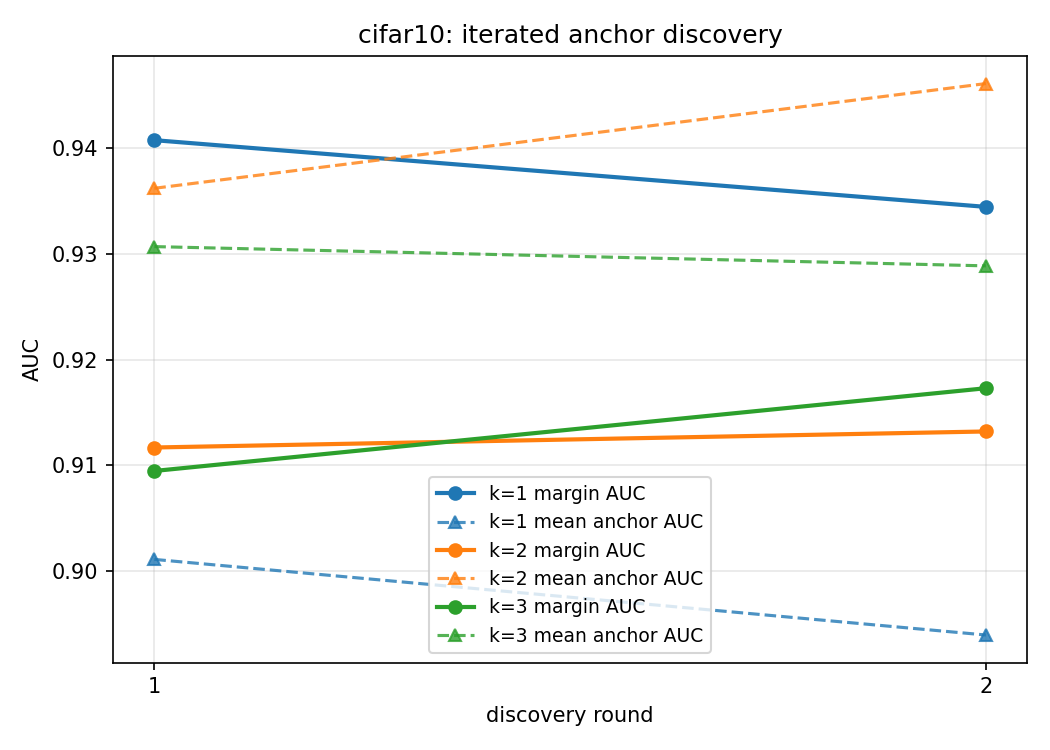
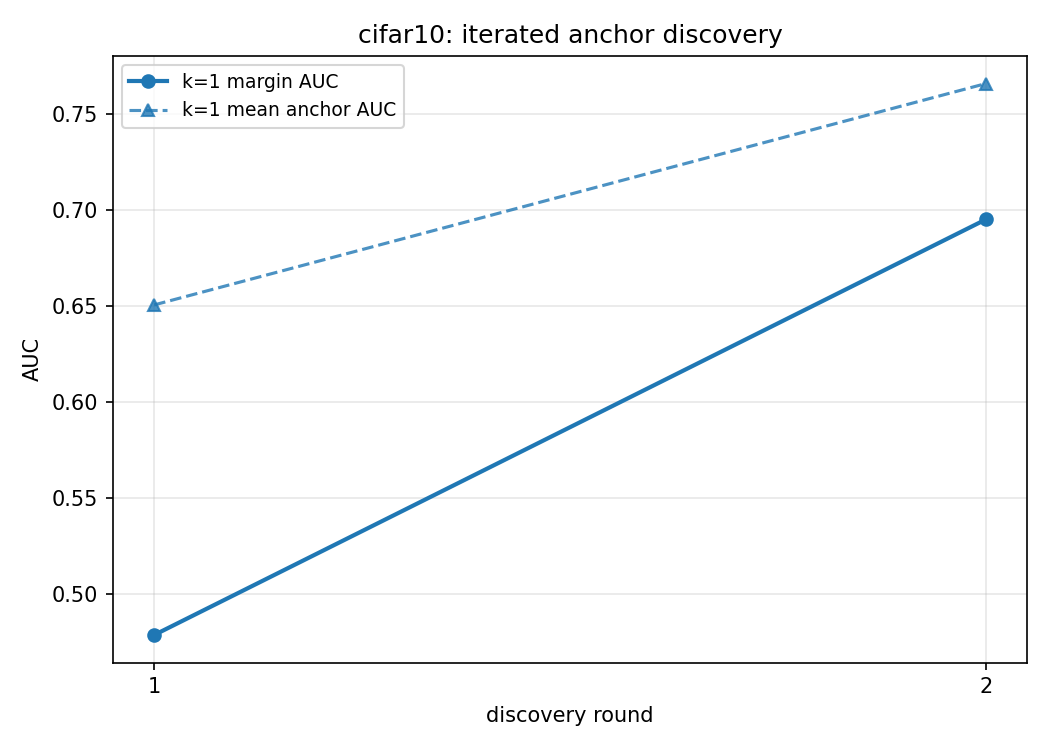
Anchor merging between rounds: null result with diagnosis
--merge-dist in experiment 24 (union-find, member-weighted centers).
Zero merges fire at 3 sigma anywhere: the fine-tuning repulsion keeps
duplicate anchors >=3 sigma apart, so distance cannot identify them.
k=10 converges by round 2 (round-3 purity 0.06); k=20 keeps finding
novelty through round 3 (purity ~0.24, anchors 0.81-0.82).

diff --git a/experiments/24_iterated_anchors.py b/experiments/24_iterated_anchors.py
@@ -102,6 +102,8 @@ def main():
     ap.add_argument("--tau-quantile", type=float, default=0.95)
     ap.add_argument("--kmax", type=int, default=4)
     ap.add_argument("--emb-dim", type=int, default=None)
+    ap.add_argument("--merge-dist", type=float, default=0.0,
+                    help="merge discovered anchors closer than this (0 = off)")
     ap.add_argument("--sigreg-weight", type=float, default=None)
     ap.add_argument("--out-tag", default="")
     args = ap.parse_args()
@@ -167,8 +169,37 @@ def main():
                                           kmax=kmax, seed=args.seed + r)
             cur_means = torch.cat([cur_means, centers.detach()], dim=0)
             pooled |= pool
-            # refresh pseudo-labels: nearest discovered anchor for every pooled pt
             disc = cur_means[n_classes:]
+            # merge discovered anchors closer than --merge-dist (weighted by members)
+            if args.merge_dist > 0 and disc.size(0) > 1:
+                memb = torch.cdist(z[torch.as_tensor(pooled, device=DEVICE)],
+                                   disc).argmin(1)
+                counts = torch.bincount(memb, minlength=disc.size(0)).float() + 1e-6
+                parent = list(range(disc.size(0)))
+
+                def find(a):
+                    while parent[a] != a:
+                        parent[a] = parent[parent[a]]
+                        a = parent[a]
+                    return a
+
+                dmat = torch.cdist(disc, disc)
+                for i in range(disc.size(0)):
+                    for j in range(i + 1, disc.size(0)):
+                        if dmat[i, j] < args.merge_dist:
+                            parent[find(i)] = find(j)
+                groups = {}
+                for i in range(disc.size(0)):
+                    groups.setdefault(find(i), []).append(i)
+                merged = torch.stack([
+                    (disc[g] * counts[g, None]).sum(0) / counts[g].sum()
+                    for g in [torch.as_tensor(v, device=DEVICE)
+                              for v in groups.values()]])
+                if merged.size(0) < disc.size(0):
+                    print(f"    merged {disc.size(0)} -> {merged.size(0)} anchors")
+                cur_means = torch.cat([cur_means[:n_classes], merged], dim=0)
+                disc = cur_means[n_classes:]
+            # refresh pseudo-labels: nearest discovered anchor for every pooled pt
             p_idx = np.where(pooled)[0]
             p_lab = n_classes + torch.cdist(
                 z[torch.as_tensor(pooled, device=DEVICE)], disc).argmin(1).cpu().numpy()

diff --git a/README.md b/README.md
@@ -611,6 +611,19 @@ label-free margin of the series after round 2 (0.708); k=20 is a wash (margin
 outweighs the crowding penalty for discovery, at a third of the compute —
 though neither width approaches the calibrated CIFAR-10 regime.
 
+**Anchor merging between rounds (`--merge-dist`)** — a null result with a
+diagnosis: at a 3σ threshold, ZERO merges fire across every block of both
+datasets, because the fine-tuning **repulsion actively maintains ≥3σ spacing
+between all anchors, duplicates included** — redundant anchors covering one
+class get pushed into distinct sub-regions instead of collapsing, so
+distance-based merging cannot identify them.  Metrics are unchanged within
+run variance (CUDA nondeterminism gives ±3–5 points on CIFAR-100 repeats).
+Side findings from the 3-round runs: k=10 converges by round 2 (round-3 pool
+purity collapses to 0.06); k=20 keeps finding novelty through round 3 (purity
+holds at ~0.24, anchors 0.81–0.82).  Fixing fragmentation needs a different
+lever — exempting discovered-anchor pairs from repulsion, or merging by
+member co-assignment rather than distance.
+
 **Discovery in the concatenated space (experiment 25)**: dual 32-dim spaces
 (frozen SIGReg-SSL trunk + supervised SIGReg branch), anchors =
 [learned mean ; SSL centroid], pooling/BIC/k-means on the 64-dim joint